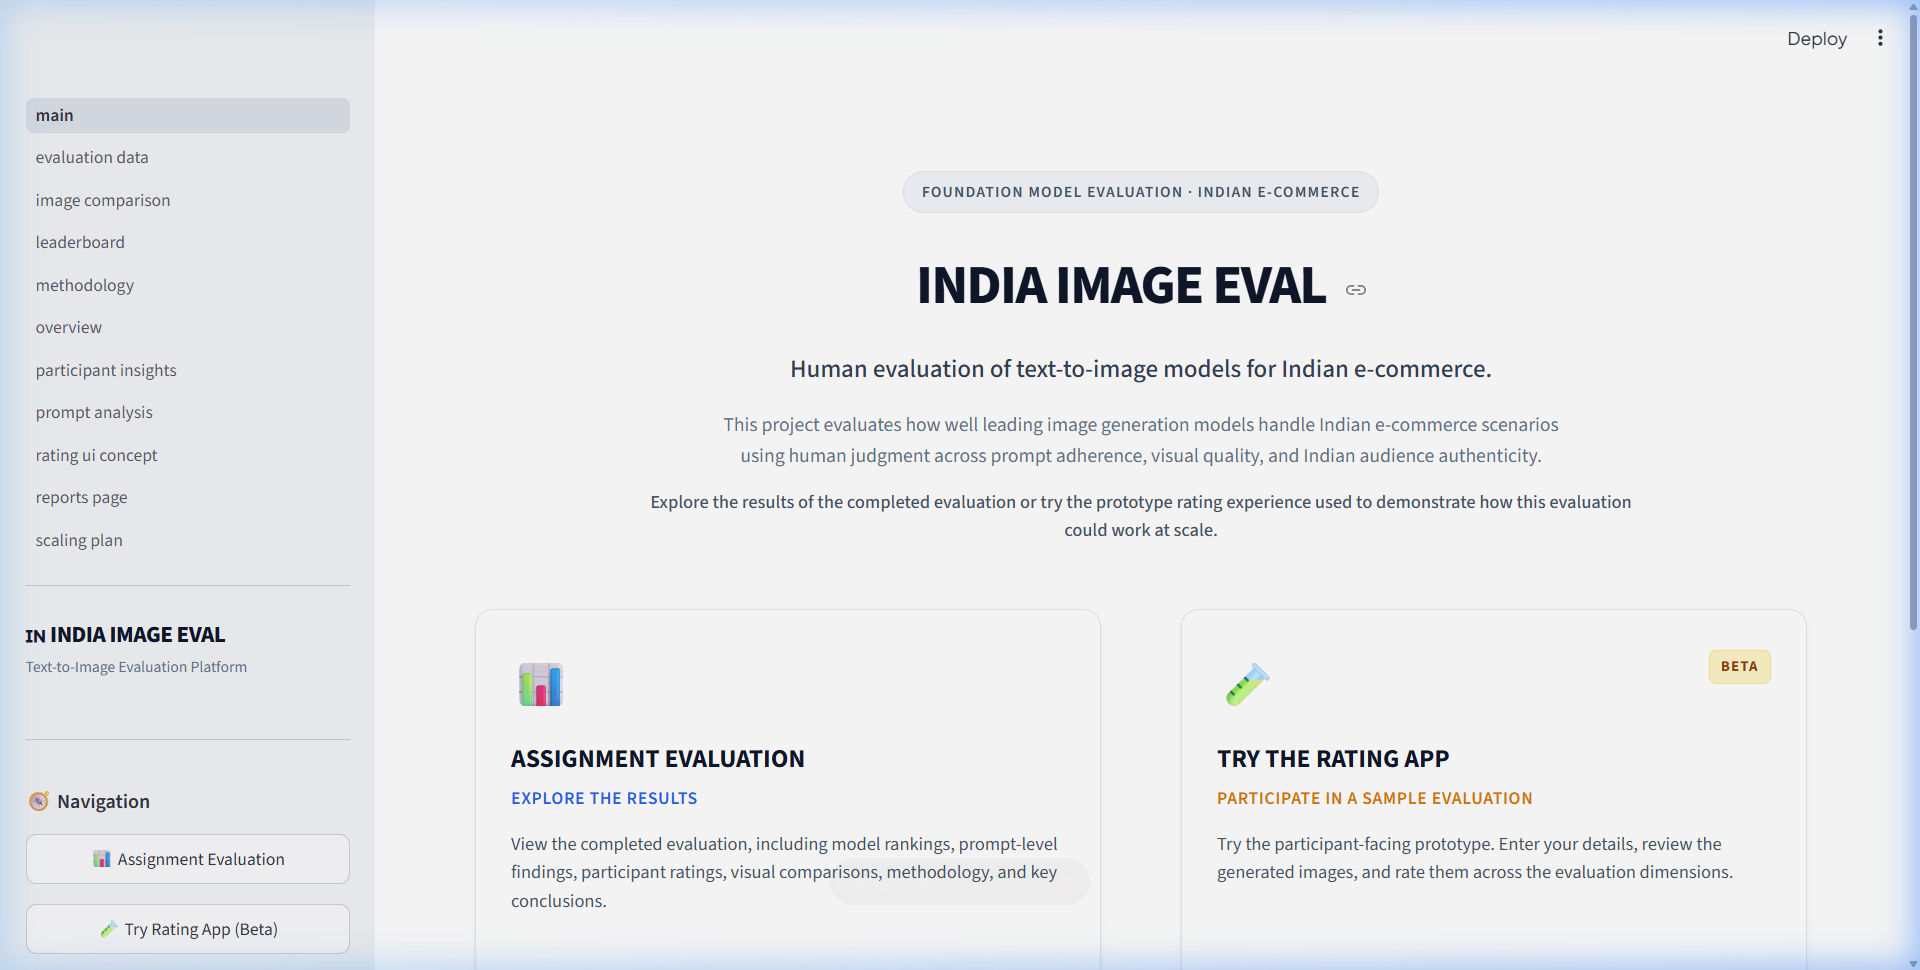
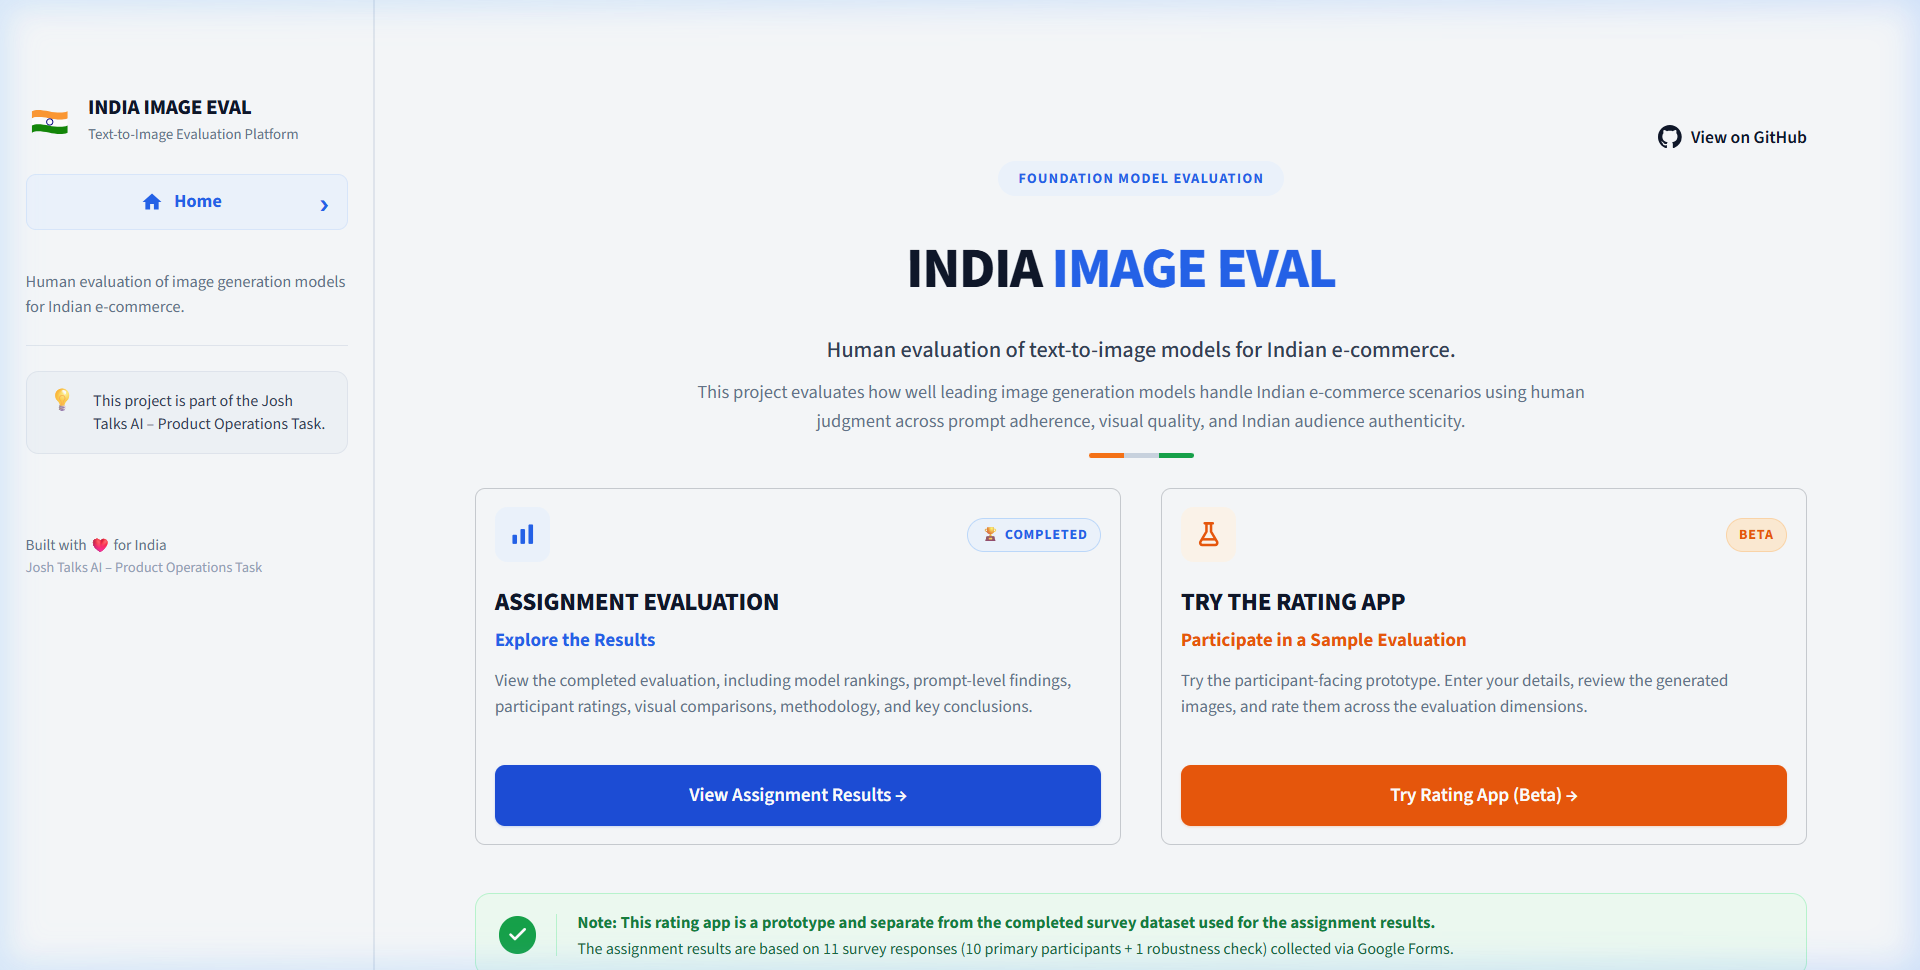
docs: update README with latest app screenshots across homepage, results, and rating app

diff --git a/README.md b/README.md
@@ -189,7 +189,7 @@ Comprehensive report containing the leaderboard, dimension radar/bar charts, pro
 
 #### 3. Try Rating App (Beta Prototype)
 Participant-facing rating prototype with informed consent, progress tracking across all 5 prompts, blinded A/B/C presentation, and isolated storage in `data/beta_responses/`:
-![Try Rating App Completion Screen](docs/images/try_rating_app.png)
+![Try Rating App Interactive Experience](docs/images/try_rating_app.png)
 
 ---
 
